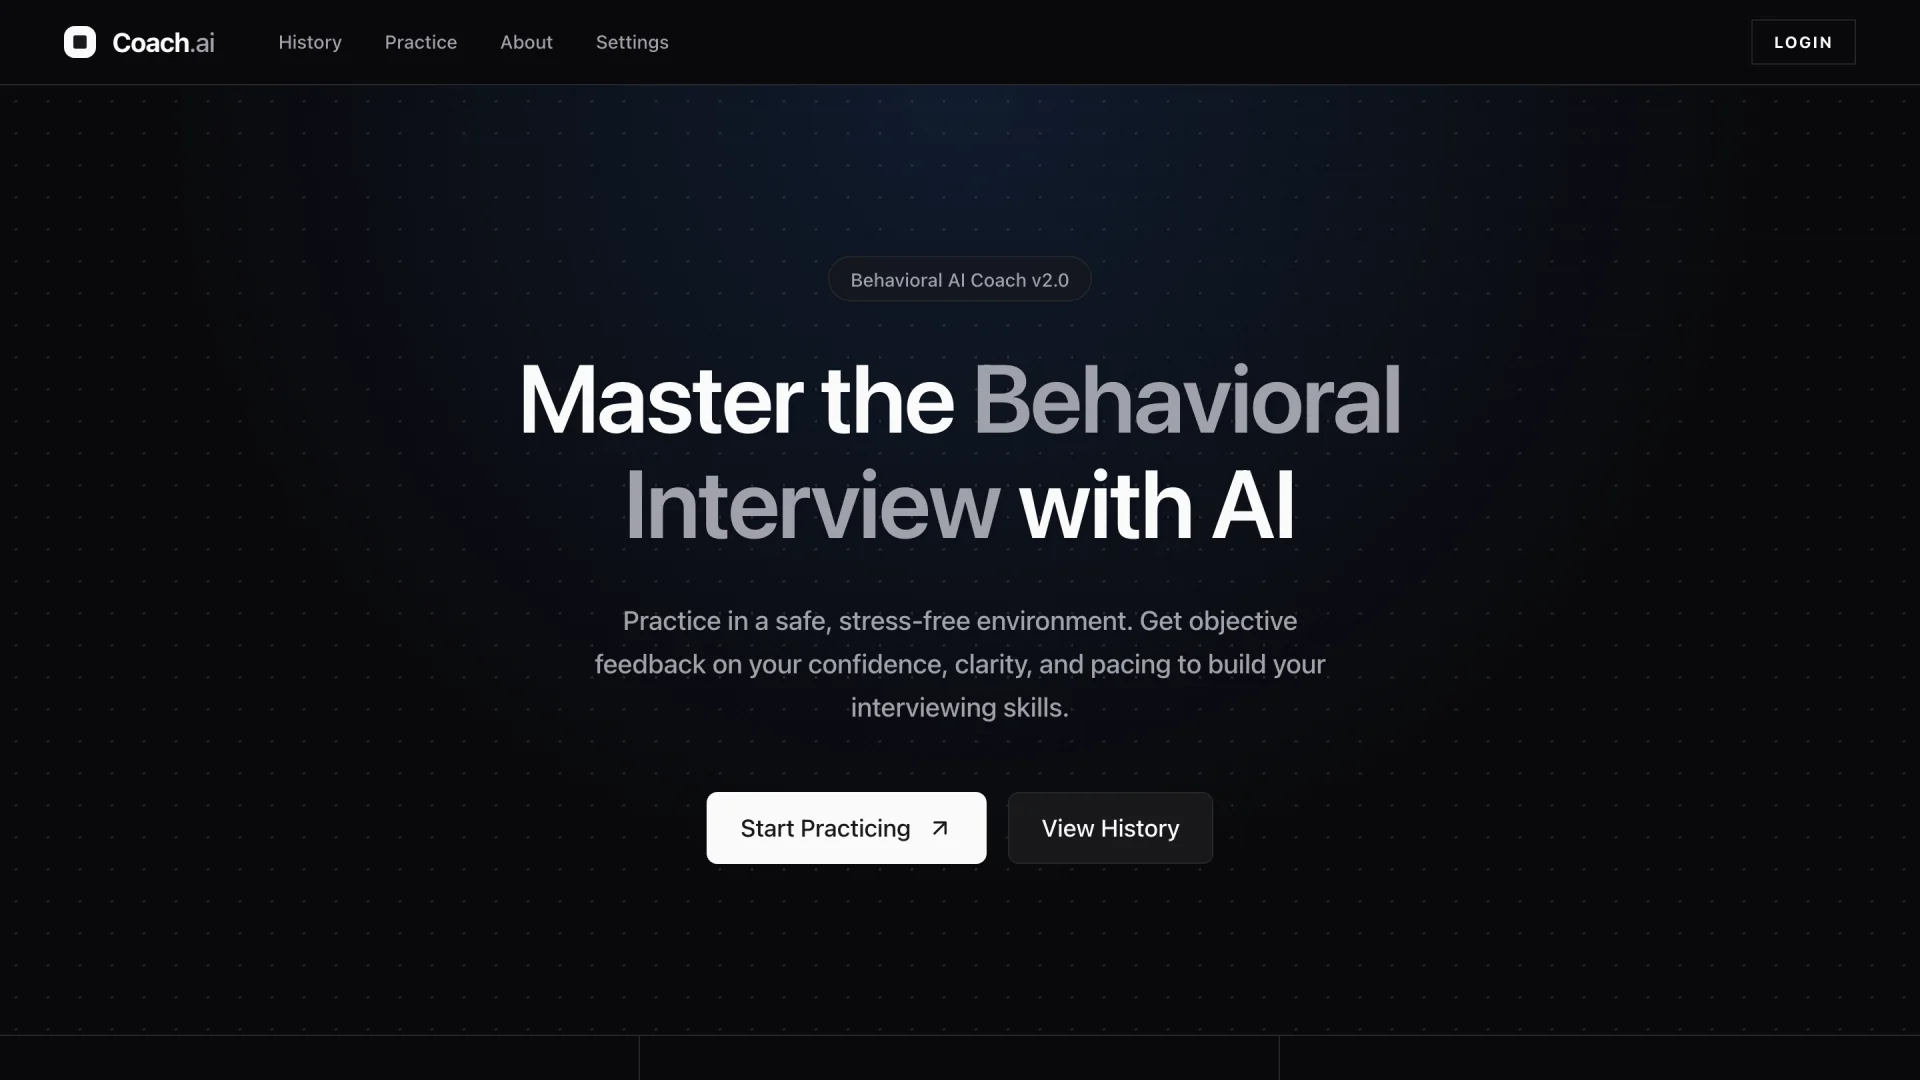
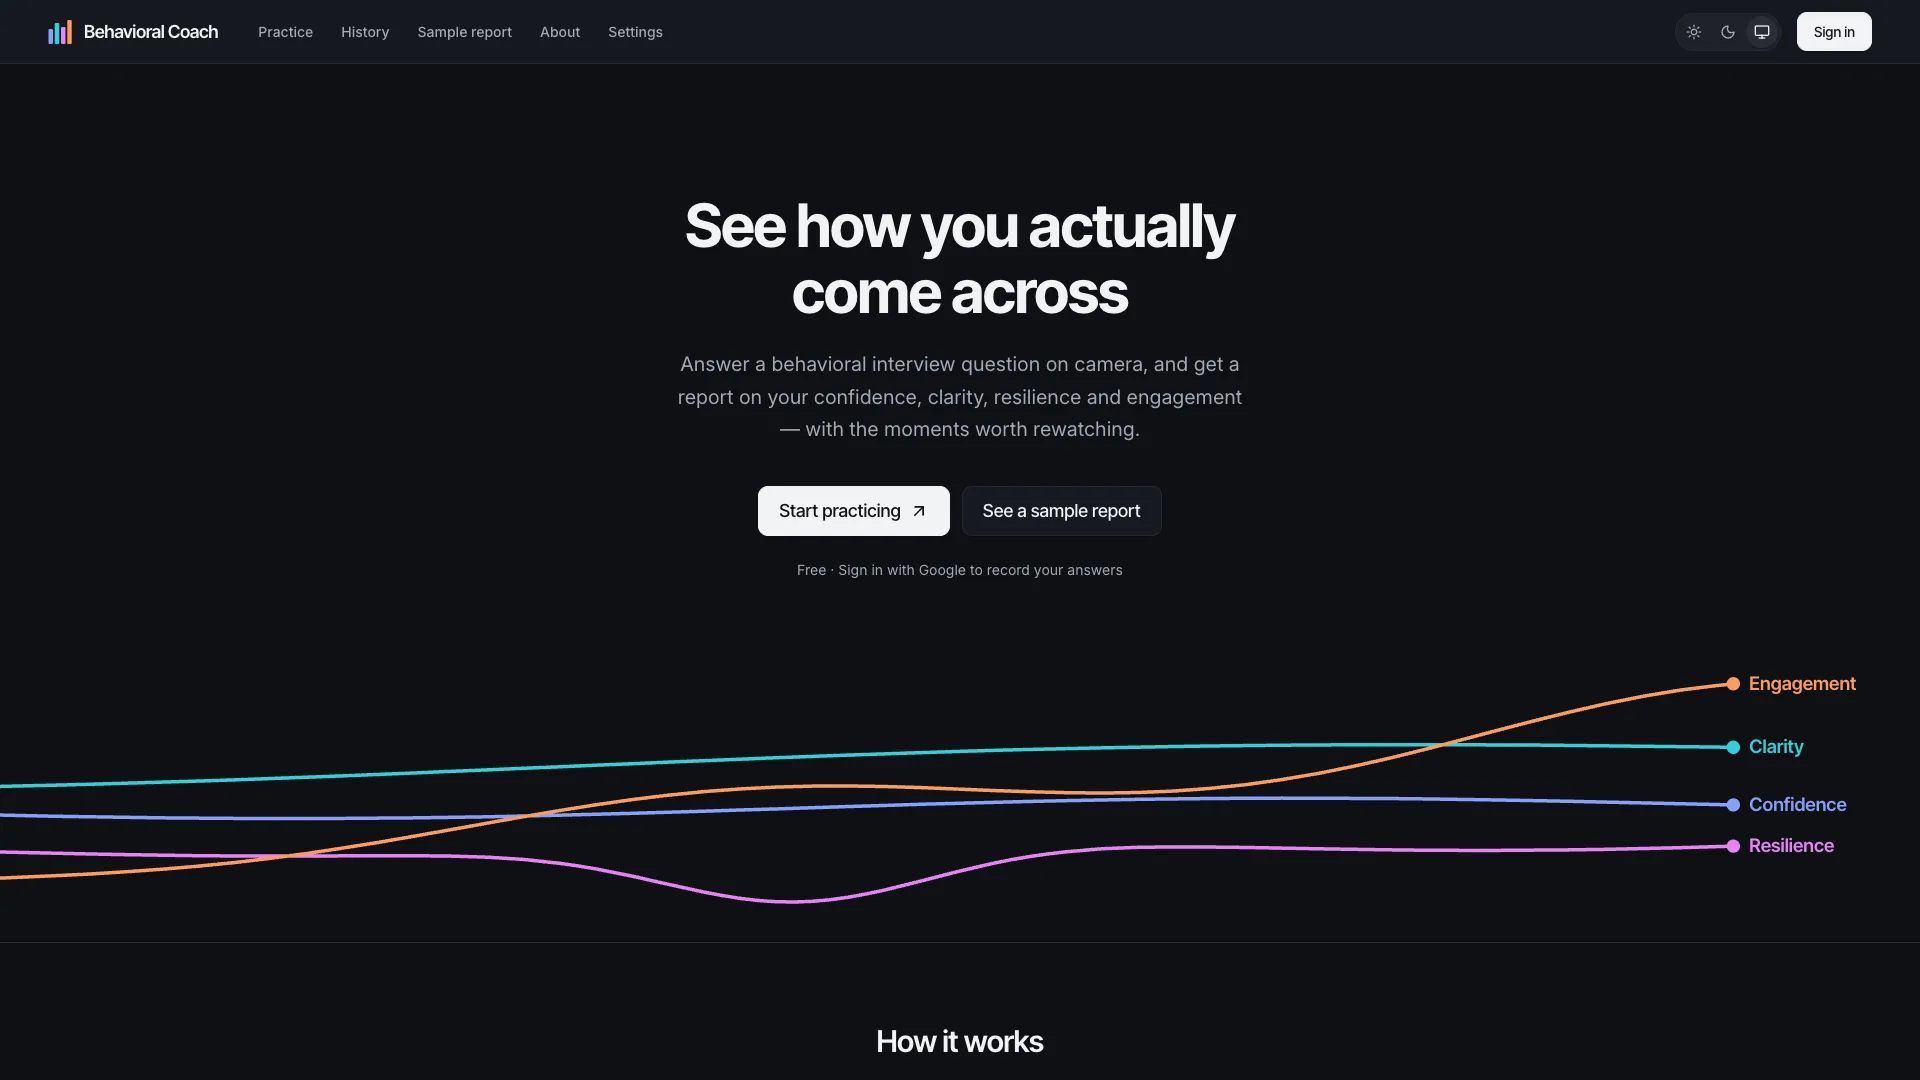
feat: refresh the Behavioral Interview Coach card from the finished app (#28)
New 1920x1080 capture of the live landing page; summary, fourth bullet and chips describe the finished app (PostgreSQL replaces Computer Vision); a Sample report button opens /demo, and the Source button is gone while the repo is private. README documents the sample field, when to leave source out, and how to retake a screenshot.

diff --git a/components/Projects.tsx b/components/Projects.tsx
@@ -3,7 +3,7 @@
 import { ComponentType, ReactNode } from "react";
 import Image from "next/image";
 import { motion } from "framer-motion";
-import { ArrowRight, ArrowUpRight, AudioWaveform, Download, FolderGit2, Github, Lightbulb, Lock, Users } from "lucide-react";
+import { ArrowRight, ArrowUpRight, AudioWaveform, Download, FileText, FolderGit2, Github, Lightbulb, Lock, Users } from "lucide-react";
 import { SiAppstore, SiGoogleplay } from "react-icons/si";
 import { BuildingVisual, type BuildingVisualKind } from "./BuildingVisuals";
 import { HighlightText, highlightKey, type Highlight } from "./Highlight";
@@ -56,6 +56,10 @@ interface ProjectBase {
 interface FeaturedProject extends ProjectBase {
     prelaunch?: Prelaunch;
     frame: Frame;
+    /** A public page that shows the product working with no sign-in, such as a sample
+     *  report. Renders as a CTA beside "Live site", so a visitor who can't sign in still
+     *  sees real output. Scheme-qualified for the same reason as `Frame["url"]`. */
+    sample?: { label: string; url: `https://${string}` };
 }
 
 /** A product with nothing to screenshot yet — no site, no store listing, no app icon.
@@ -92,21 +96,28 @@ const FEATURED: FeaturedProject[] = [
     {
         title: "Behavioral Interview Coach",
         kind: "Full-stack · Multimodal AI",
+        // Summary, bullet 4 and chips describe the finished app (Nov 2026): mock interviews, the
+        // STAR review, the voice timeline. The STAR review may give a verdict with no quote, so
+        // claim only that the quotes it shows are checked. No "Computer Vision" chip: the face
+        // reading is Imentiv's API, not in-house CV.
         summary:
-            "Soft-skills-first interview simulator that quantifies subconscious cues like facial expression and vocal tone to improve delivery.",
+            "Practice behavioral answers on camera and see how you actually came across: four delivery scores, a transcript lined up with your voice’s tone, and a STAR review of what you said.",
         highlights: [
             "Architected a ‘Soft-Skills First’ analysis engine designed to quantify non-technical traits (confidence, clarity, resilience, engagement), filling the critical feedback gap left by technical platforms like LeetCode.",
             "Created a real-time interview simulation replicating high-pressure screenings in a low-stakes environment.",
             "Developed a multimodal pipeline that separates semantic content from delivery when evaluating performance.",
-            "Gemini streams résumé-tailored questions for any company and role, then turns your session history into a personalized coaching plan.",
+            "Built a mock-interview mode that asks three résumé-tailored Gemini questions back to back, and a STAR review whose quotes are checked word for word against the transcript.",
         ],
-        tech: ["Python", "FastAPI", "Imentiv API", "Next.js", "Docker", "AWS S3", "Gemini", "Computer Vision"],
+        tech: ["Python", "FastAPI", "Imentiv API", "Next.js", "PostgreSQL", "Docker", "AWS S3", "Gemini"],
         frame: {
             kind: "site",
             url: "https://behavioral-interview-coach.vercel.app/",
             shot: "/images/projects/behavioral-coach.webp",
         },
-        source: "https://github.com/rohan1234usa/behavioral-coach",
+        // Signing in to record needs Google, so the sample report is the one-click look.
+        sample: { label: "Sample report", url: "https://behavioral-interview-coach.vercel.app/demo" },
+        // No `source` while github.com/rohan1234usa/behavioral-coach is private (it 404s for
+        // visitors). Add it back once the repo is public again, here and in README.md.
         glow: "#4F8FE0",
     },
     {
@@ -311,6 +322,10 @@ const TechChip = ({ name }: { name: string }) => (
  *  deliberately gets no hover feedback. */
 const FRAME_CHROME =
     "ring-1 ring-black/10 dark:ring-white/10 shadow-[0_28px_56px_-24px_rgba(0,34,68,0.55)] dark:shadow-[0_28px_64px_-24px_rgba(0,0,0,0.85)] transition-transform duration-500 ease-out group-hover/shot:-translate-y-1.5 motion-reduce:transition-none";
+
+/** The outlined CTA beside "Live site" (Sample report, Source), shared so the two can't drift. */
+const OUTLINE_CTA =
+    "inline-flex items-center gap-2 px-5 py-2.5 border border-line-strong text-fg-soft text-sm font-medium rounded-sm hover:border-accent hover:text-accent";
 
 /** Dot grid behind a tile, faded toward the edges. Shared so the pitch and mask can't
  *  drift between the featured and building tiles. */
@@ -583,12 +598,24 @@ const FeaturedRow = ({
                             <ArrowUpRight aria-hidden size={16} />
                         </a>
                     )}
+                    {project.sample && (
+                        <a
+                            href={project.sample.url}
+                            target="_blank"
+                            rel="noopener noreferrer"
+                            className={OUTLINE_CTA}
+                        >
+                            <FileText aria-hidden size={16} />
+                            {project.sample.label}
+                            <span className="sr-only">: {project.title}</span>
+                        </a>
+                    )}
                     {project.source && (
                         <a
                             href={project.source}
                             target="_blank"
                             rel="noopener noreferrer"
-                            className="inline-flex items-center gap-2 px-5 py-2.5 border border-line-strong text-fg-soft text-sm font-medium rounded-sm hover:border-accent hover:text-accent"
+                            className={OUTLINE_CTA}
                         >
                             <Github aria-hidden size={16} />
                             Source

diff --git a/README.md b/README.md
@@ -27,9 +27,9 @@ I **own products end to end**, from drafting spec docs and testing prototypes to
 
 ## 🏆 Featured Projects
 
-### [Behavioral Interview Coach](https://behavioral-interview-coach.vercel.app/) · [source](https://github.com/rohan1234usa/behavioral-coach)
-*(Python, FastAPI, Imentiv API, Next.js, Docker, AWS S3, Gemini)*  
-Soft-skills-first interview simulator that quantifies subconscious cues like facial expression and vocal tone to improve delivery. A multimodal pipeline fuses face, voice, and transcript signals into confidence, clarity, resilience, and engagement scores; Gemini streams résumé-tailored questions and builds a coaching plan from past sessions.
+### [Behavioral Interview Coach](https://behavioral-interview-coach.vercel.app/) · [sample report](https://behavioral-interview-coach.vercel.app/demo)
+*(Python, FastAPI, Imentiv API, Next.js, PostgreSQL, Docker, AWS S3, Gemini)*  
+Practice behavioral answers on camera and see how you actually came across: four delivery scores, a transcript lined up with your voice's tone, and a STAR review of what you said. A multimodal pipeline fuses face, voice, and transcript signals into confidence, clarity, resilience, and engagement scores. Gemini writes résumé-tailored questions, which a mock-interview mode asks back to back, and reviews each answer's STAR structure, with every quote it shows checked against the transcript.
 
 ### [SikhAI](https://sikhai.vercel.app/) · [source](https://github.com/rohan1234usa/sikh-ai)
 *(Next.js, TypeScript, Gemini, Firebase)*  
@@ -69,7 +69,7 @@ The contact form sends mail through Gmail SMTP — copy `.env.example` to `.env.
 |---|---|
 | Hero headline and intro | `components/Hero.tsx` — the headline is repeated as this README's tagline and as `TAGLINE_LINES` in `app/opengraph-image.tsx`, and the intro (minus its first sentence) as **About Me** above, so change them together. On phones the headline's size follows the screen width so "From product vision" fits one line at 320px; if its words change, re-check that with the numbers in the comment above the `<h1>` |
 | The hero's `now.ts` focus list | The `segments` passed to `TypingCode` in `components/Hero.tsx`. The box sizes itself to the finished text, so lines can be added or removed freely. Keep each line no longer than the longest one now (31 characters, counting the indent, quotes and comma), or it runs past the card on a 320px phone |
-| Project copy, links, and tech chips | `FEATURED` / `BUILDING_LEAD` / `BUILDING` / `SHIPPED` in `components/Projects.tsx` |
+| Project copy, links, and tech chips | `FEATURED` / `BUILDING_LEAD` / `BUILDING` / `SHIPPED` in `components/Projects.tsx`. A featured card's buttons are "Live site" (from `frame`), an optional `sample` (`{ label, url }`, a public page that needs no sign-in, such as the Coach's sample report) and an optional `source`. Leave `source` out while a repo is private: it 404s for visitors. The Coach's is left out for now, so add it back here and on the card once that repo is public |
 | A project still being built | Add a `BuildingProject` to `BUILDING` (its interface documents each field) — it renders in the "Now building" band with signal art instead of a screenshot. Launching it means moving it into `FEATURED` with a `frame`; the full checklist is the comment above `BUILDING` |
 | The project leading the "Now building" band | `BUILDING_LEAD` — a 0-or-1 array of `FeaturedProject`, so it renders with real art and keeps `prelaunch` while sharing the band rows' column grid. Empty the array to drop the lead; the band self-removes once `BUILDING` is also empty |
 | "Now building" signal art | `components/BuildingVisuals.tsx` — one motif per project, shown until there's a real capture |
@@ -77,7 +77,7 @@ The contact form sends mail through Gmail SMTP — copy `.env.example` to `.env.
 | A bullet with a lead, on a project card or a job | `Highlight` in `components/Highlight.tsx` — the shared type, key and renderer, so the lead's style cannot drift between Projects and Experience |
 | Research and publications | `components/Research.tsx` — `CURRENT` is research still under way, shown under a "Current" label above the papers. The UC Irvine lab's place, date, advisor and links live once in `UCI_LAB` in `lib/research.ts`, shared by the card and the lab's `EXPERIENCE` entry. While the lab's work is unpublished, both name the field and role only; add specifics once the lab clears them. The empty `#publications` anchor keeps old links to the section working. `PUBLICATIONS` holds the papers: `authors` are written as on the résumé, and any name in `SELF` is set in bold; an optional `note` adds a smaller line under the venue, such as a later republication |
 | Degree, GPA, honors, and coursework | `components/Education.tsx` — each school is a `SchoolCard`: a header (`SchoolHeader`) plus a bar that opens a panel. The UCI card holds the school, degree, specialization line, dates, GPA and honor pills, and its panel is `COURSES` (array order is display order, so keep it grouped by department rather than sorted by number); the Monta Vista panel is `AP_GROUPS` (subject → course + score). The bars' counts and teasers derive from those arrays. Study that hasn't started sits above them as the dashed "Up next" card: `NEXT_STUDY`, rendered by `PlannedCard` with the same header and no panel |
-| Project screenshots | `public/images/projects/*.webp` — 1920×1080 captures of each live site's hero |
+| Project screenshots | `public/images/projects/*.webp` — 1920×1080 dark-mode captures of each live site's hero. To retake one: `"/Applications/Google Chrome.app/Contents/MacOS/Google Chrome" --headless=new --user-data-dir="$(mktemp -d)" --hide-scrollbars --force-dark-mode --blink-settings=preferredColorScheme=0 --window-size=1920,1080 --force-device-scale-factor=1 --virtual-time-budget=10000 --screenshot=shot.png <url>`, then `cwebp -q 82 -m 6 shot.png -o public/images/projects/<slug>.webp`. The time budget lets web fonts and entrance animations finish; check the PNG before converting |
 | What fills a project's frame | `frame` on a `FEATURED` or `BUILDING_LEAD` entry — `{ kind: "site", url, shot }` for a browser-framed capture, `{ kind: "mark", src }` for a square app icon (`public/images/projects/*.png`) |
 | "Coming soon" state on a project | `prelaunch: { label, pill }` on a `FEATURED` or `BUILDING_LEAD` entry — `pill` is the store pill, and `label` drives the eyebrow dot on `FEATURED` rows only (the band lead hides it). On launch day swap `frame` to `kind: "site"`, delete `prelaunch`, move the object into `FEATURED`, and finish with steps 3–4 of the checklist above `BUILDING` |
 | A new tech chip's logo | `TECH` in `components/TechIcon.tsx` — unlisted names fall back to a generic glyph |
